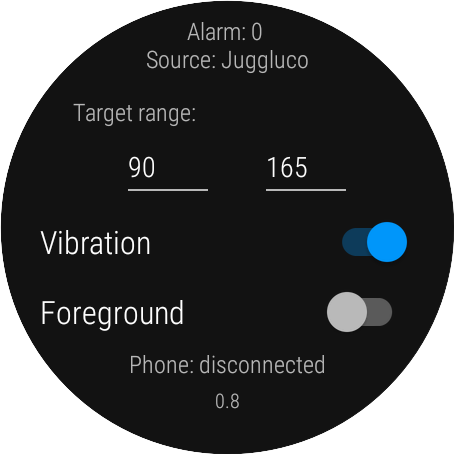
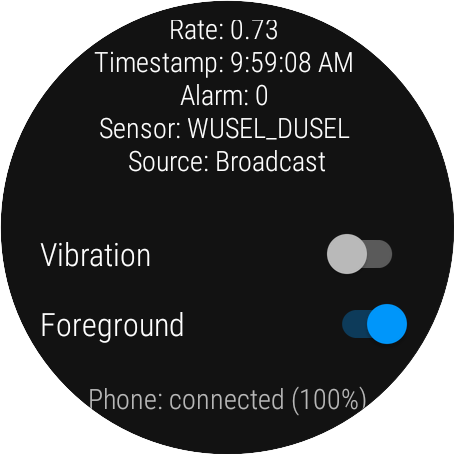
Update README and installation instructions

diff --git a/README.md b/README.md
@@ -1,12 +1,12 @@
 # Glucose Data Handler
+## Features
 
-<img src='images/watch.png' width=100>
-
-This Android and Wear OS App receives glucodata broadcasts from Juggluco (mobile or/and wear version).
-The mobile version provides a tasker event plugin to handle these data in tasker.
-The wear version provides some complication, which can be used in every watchface with complication support.
-
-The wear version is a standalone version, you don´t need the mobile version, if you don´t have problems with the communication between the mobile and wear version of Juggluco. If you have any troubles or you can not install Juggluco on your mobile device for any reason, you can use my both apps which are also exchanging the glucodata broadcast.
+* receives glucose values from Juggluco
+* receives glucose values from xDrip+
+* provide several **complications** in the Wear OS version
+* provide **Android Auto** support
+* provide **Tasker Event** for new glucose values
+* send glucodata broadcasts to other apps (which supports this broadcast)
 
 ## Installation
 
@@ -18,17 +18,16 @@ The wear version is a standalone version, you don´t need the mobile version, if
 
 <img src='images/settings_wear.png' width=200>
 
-* Target range: set your target glucose range needed for yellow color of the rate image (red color is set for an alarm)
 * Vibration: the watch vibrate if the target range is left and repeat it as long as the target range is left
-* Foreground: only if you have trouble with updating complications (also try deactivating Play Protect as this kills non Playstore apps)
+* Foreground: recommended to prevent Wear OS from closing this app (also try deactivating Play Protect as this kills non Playstore apps)
+* other settings: all other settings are made in the phone app
 
 ### Phone
 
-<img src='images/installed.png' width=400>
+The settings for the phone are described in the app itself. The settings from the phone will be send to the wear, if it is connected.
 
-* Send to xDrip: forward all received glucodata broadcasts to xDrip+
-* Forward glucodata broadcast: forward all received glucodata broadcasts to specified receiver
-  * you can select a receiver, if you do not select a receiver, a global broadcast is send and each app which has been registered for this glucodata broadcast can receive it 
+<img src='images/settings_phone_1.png' width=300>
+<img src='images/settings_phone_2.png' width=300>
 
 #### Complications
 There are several complications for the different types of wear OS complications, which provides:
@@ -56,6 +55,26 @@ There are several complications for the different types of wear OS complications
 
 **IMPORTANT:** Not all complications are fully supported by any watchface. For example the SHORT_TEXT type supports an icon, a text and a title, but the most watchfaces only show icon and text or text and title, but there are some, showing all 3 types in one.
 Also the RANGE_VALUE complication is handled different in each watchface.
+
+### Android Auto
+
+This app supports Android Auto.
+
+#### Option #1: Using dummy media implementation
+If you are not using any Android Auto media app for listen music, you can use GlucoDataHandler to display its values in the media tap:
+
+<img src='images/AA_media.png' width=300>
+
+IMPORTANT: it is recommended to disable all other media apps in the Android Auto launcher, to get this to work.
+
+#### Option #2: Using notifications
+
+You can also use notifications:
+
+<img src='images/AA_notification.png' width=300>
+<img src='images/AA_notification_view.png' width=300>
+
+INFO: the notification popup is shown for every new value.
 
 ### Tasker
 

diff --git a/INSTALLATION.md b/INSTALLATION.md
@@ -13,11 +13,21 @@ Download and install `GlucoDataHandler.apk` (allow install from unknown source i
 
 <img src='images/download.png' width=350>
 
-Open Juggluco and enable `Glucodata broadcast` and select `de.michelinside.glucodatahandler` in Settings. Save and Ok.
+### Configure Juggluco
+If you are using Juggluco to receive glucose values, open Juggluco and enable `Glucodata broadcast` and select `de.michelinside.glucodatahandler` in Settings. Save and Ok.
 
 <img src='images/broadcast.png' width=700>
 
-Open the app, you should now also see your BG display in the GlucoDataHandler app.
+### Configure xDrip+
+If you are using xDrip+ to receive glucose values, open xDrip+, go to setting and select Inter-app settings
+* Enable "Broadcast locally"
+* Enable "Compatible Broadcast"
+* Check "Identify receiver" to be empty
+  
+<img src='images/xDrip_InterAppSettings_EN.png' width=340>
+
+### Check mobile app
+Open the app and wait for a glucose value to be displayed in the GlucoDataHandler app.
 
 <img src='images/installed.png' width=400>
 
@@ -43,17 +53,19 @@ Download `GlucoDataHandler-Wear.apk` on your computer,install ADB, enable develo
 adb install -r GlucoDataHandler-Wear.apk
 ```
 
-### Other methods
+### More information
 
-See [here](https://forum.xda-developers.com/t/how-to-install-apps-on-wear-os-all-methods.4510255/).
+See [here](https://forum.xda-developers.com/t/how-to-install-apps-on-wear-os-all-methods.4510255/) for more information.
+
+### Check installation
 
 You should now have the GlucoDataHandler app on your watch.
 
 <img src='images/watch_apps.png' width=300>
 
-Open it and setup the range.
+Open the app and make sure "Foreground" is activated (recommended).
 
-<img src='images/watch_setup.png' width=300>
+<img src='images/watch_gdh_app.png' width=300>
 
 ## 3 - Setup a complication
 
@@ -74,3 +86,28 @@ You can customize other fields with different information.
 And you should be set.
 
 <img src='images/complication4.png' width=300>
+
+## 4 - Setup Android Auto
+
+To activate GlucoDataHandler for Android Auto, you have to do the following steps:
+
+### 1. Activate developer mode
+
+* open Android Auto app
+* scroll down to the Version
+* tap several times on the Version until a popup appears to "Allow development settings"
+* press "OK"
+
+### 2. Activate "Unknwon sources"
+
+* open Android Auto app
+* open in the 3-dot menu the "Developer settings"
+* scroll down to "Unknown source"
+* enable it
+
+### 3. Set Notifications settings
+
+* open Android Auto app
+* scroll down to "Notifications"
+* enable "Show conversations"
+* enable "Show first line of conversations"
